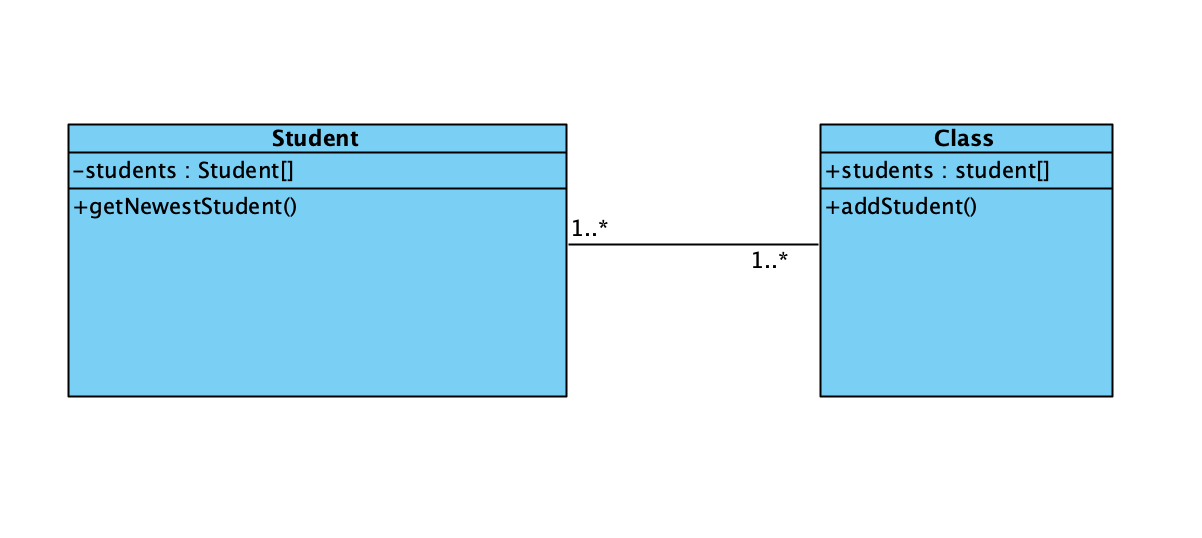
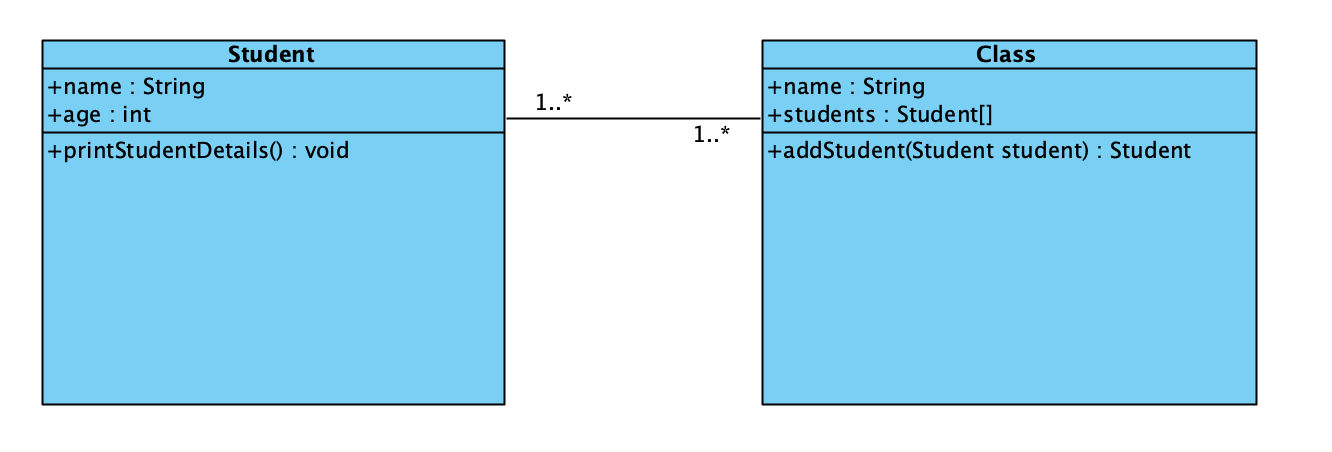
asd

diff --git a/topics/04 - oop/class-diagram.md b/topics/04 - oop/class-diagram.md
@@ -18,7 +18,29 @@ Methods are also called operation or behaviour.
 
 Class diagram made in visual Paradigm
 
-![CleanShot 2021-09-28 at 13.15.48@2x](../../assets/class-diagram-visual-paradigm.png)
+![CleanShot 2021-09-29 at 07.53.38@2x](../../assets/class-diagram-visual-paradigm.png)
+
+
+
+## Attributes
+
+Attributes are also called fields
+
+Attributes are written above the seperating line. 
+
+The plus sign means public
+
+The minus sign mean private
+
+What you write after the `:` should be the type
+
+
+
+## Methods
+
+Methods are sometime called behaviour or operation. 
+
+Add the parameters of the method. After the `:` write the type the method returns
 
 
 
